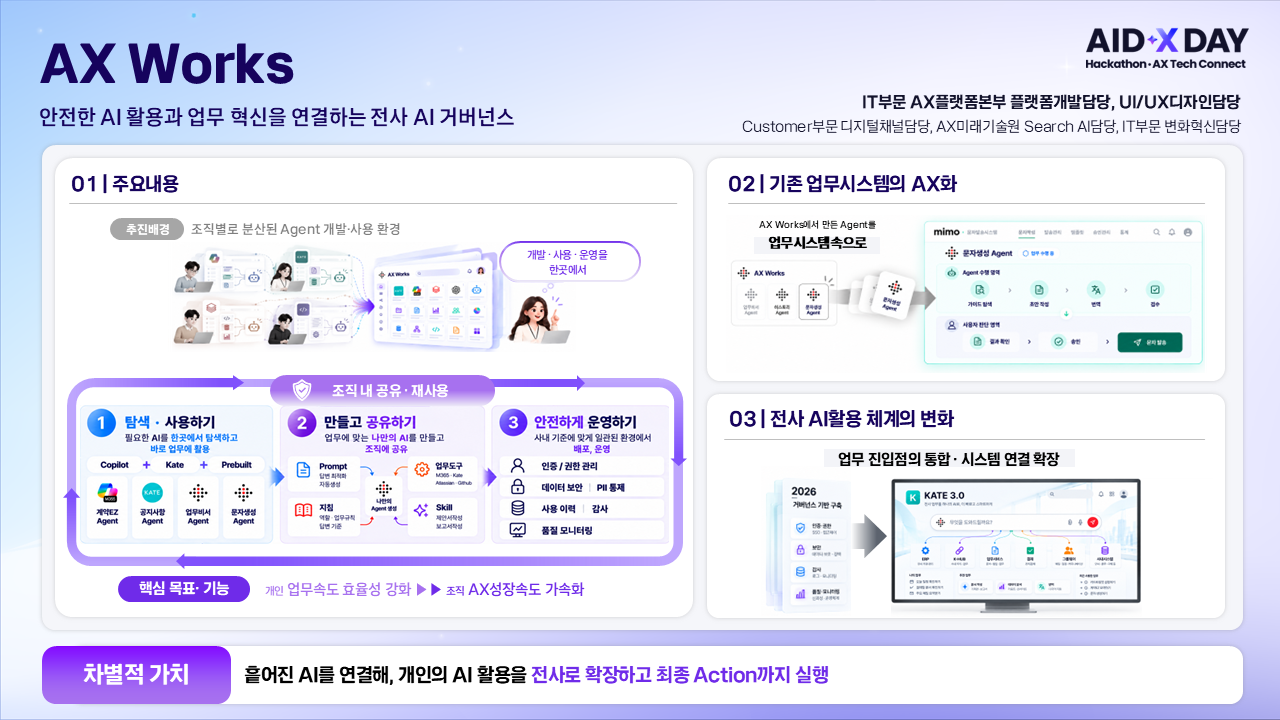
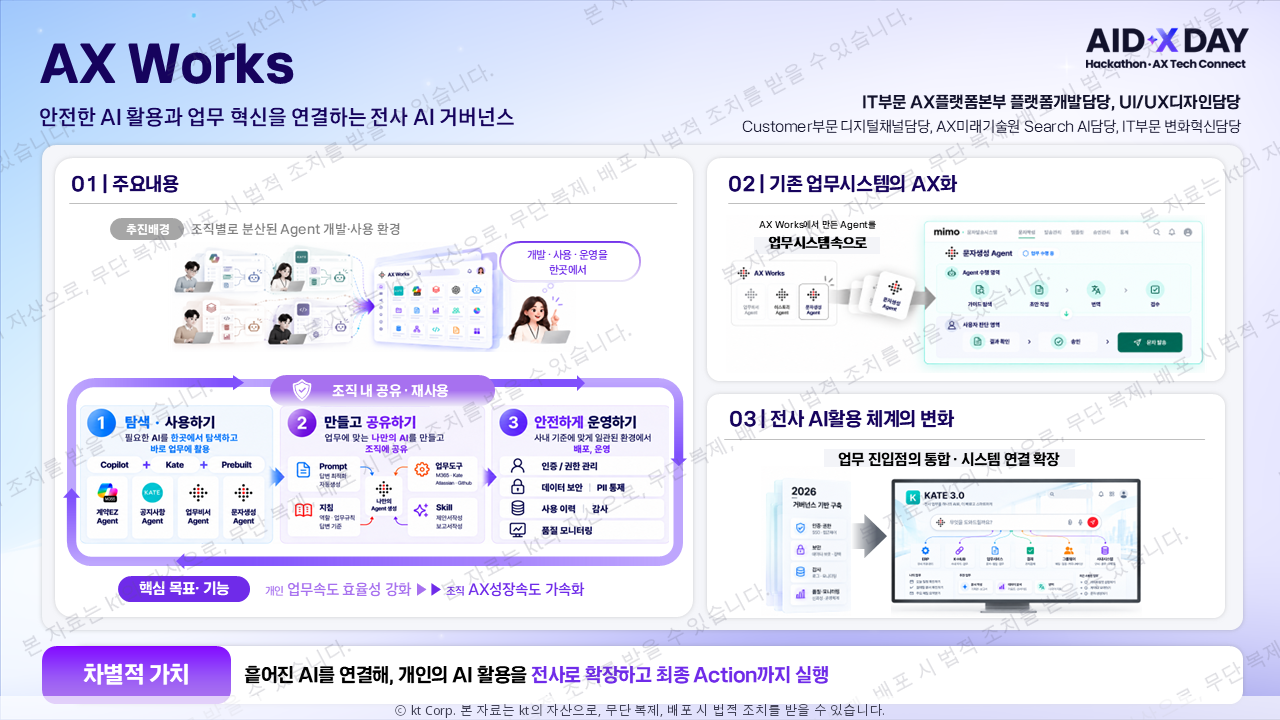
Burn watermark into slide images; show 10.15 00:00–21:00 KST; hide paging for single image; Action watermarks new uploads
Claude-Session: https://claude.ai/code/session_01ERFEuNLNeBDcTGC9L6qXGy

diff --git a/agenda.js b/agenda.js
@@ -16,7 +16,7 @@
   }
   // ---- 자료 뷰어 (이미지 slides/ 또는 PDF) — 화면 워터마크 + 우클릭/길게 눌러 저장 막기 ----
   const PDFJS = "https://cdnjs.cloudflare.com/ajax/libs/pdf.js/3.11.174/";
-  const PDF_NOTICE = "본 자료는 kt의 자산으로, 무단 복제·배포 시 법적 조치를 받을 수 있습니다.";
+  const PDF_NOTICE = "본 자료는 kt의 자산으로, 무단 복제, 배포 시 법적 조치를 받을 수 있습니다.";
   // 열람 가능할 때(서버가 200을 줄 때)만 box를 PDF 뷰어로 바꿔요. 아니면 원래 그림을 그대로 둬요
   function pdfViewer(box, url, onShow) {
     // 운영진 미리보기: 페이지 주소에 ?key=… 가 있으면 PDF 요청에도 붙여요
@@ -88,6 +88,7 @@
     const full = h("button", { type: "button", class: "pdf-btn pdf-full-btn", "aria-label": "크게 보기" }, "⛶");
     const bar = h("div", { class: "pdf-bar" }, prev, num, next, full);
     box.append(stage, bar);
+    if (doc.numPages <= 1) box.classList.add("single");  // 한 장이면 페이지 넘김 숨김
     // 꾹 눌러 저장/복사 막기: 메뉴·선택·드래그 차단 (+ CSS의 -webkit-touch-callout)
     ["contextmenu", "selectstart", "copy"].forEach(ev => box.addEventListener(ev, e => e.preventDefault()));
     box.addEventListener("dragstart", e => e.preventDefault());

diff --git a/functions/pdf/[[path]].js b/functions/pdf/[[path]].js
@@ -1,9 +1,9 @@
 // /pdf/* 요청을 먼저 받아서 공개 시간에만 파일을 내줘요 (Cloudflare Pages Functions)
-// - 공개 시간: 2026-10-15 00:00 ~ 18:00 (한국 시간), 서버 시계 기준
+// - 공개 시간: 2026-10-15 00:00 ~ 21:00 (한국 시간), 서버 시계 기준
 // - 운영진 미리보기: ?key=<PDF_PREVIEW_KEY>  (Cloudflare 설정 > Variables and Secrets 에 저장)
 // - ALWAYS_OPEN 파일은 시간과 상관없이 열려요 (테스트용)
 const OPEN = Date.parse("2026-10-15T00:00:00+09:00");
-const CLOSE = Date.parse("2026-10-15T18:00:00+09:00");
+const CLOSE = Date.parse("2026-10-15T21:00:00+09:00");
 const ALWAYS_OPEN = ["test_agenda.pdf"];
 
 export async function onRequest({ request, env, next }) {
@@ -15,7 +15,7 @@ export async function onRequest({ request, env, next }) {
   const state = now < OPEN ? "before" : now >= CLOSE ? "after" : "open";
 
   if (!ALWAYS_OPEN.includes(name) && !preview && state !== "open") {
-    return new Response("발표 자료는 10.15(목) 00:00–18:00에만 볼 수 있습니다.", {
+    return new Response("발표 자료는 10.15(목) 00:00–21:00에만 볼 수 있습니다.", {
       status: 403,
       headers: {
         "Content-Type": "text/plain; charset=utf-8",

diff --git a/functions/slides/[[path]].js b/functions/slides/[[path]].js
@@ -1,9 +1,9 @@
 // /slides/* (상세 페이지 이미지 자료) 요청을 먼저 받아서 공개 시간에만 내줘요 (Cloudflare Pages Functions)
-// - 공개 시간: 2026-10-15 00:00 ~ 18:00 (한국 시간), 서버 시계 기준
+// - 공개 시간: 2026-10-15 00:00 ~ 21:00 (한국 시간), 서버 시계 기준
 // - 운영진 미리보기: ?key=<PDF_PREVIEW_KEY>  (Cloudflare 설정 > Variables and Secrets 에 저장)
 // - ALWAYS_OPEN 폴더는 시간과 상관없이 열려요 (테스트용)
 const OPEN = Date.parse("2026-10-15T00:00:00+09:00");
-const CLOSE = Date.parse("2026-10-15T18:00:00+09:00");
+const CLOSE = Date.parse("2026-10-15T21:00:00+09:00");
 const ALWAYS_OPEN = ["test_agenda"];
 
 export async function onRequest({ request, env, next }) {

diff --git a/agenda.css b/agenda.css
@@ -139,6 +139,7 @@ a { color: inherit; }
 .pdf-btn:disabled { opacity: .35; cursor: default; }
 .pdf-num { min-width: 64px; text-align: center; font-size: 14px; font-weight: 700; font-variant-numeric: tabular-nums; color: var(--ink-dim); }
 .pdf-full-btn { position: absolute; right: 10px; font-size: 16px; }
+.visual.has-pdf.single .pdf-bar > :not(.pdf-full-btn) { visibility: hidden; }
 .pdf-bar { position: relative; }
 .visual.has-pdf.full {
   position: fixed; inset: 0; z-index: 100; margin: 0; border-radius: 0; border: 0;

diff --git a/tools/watermark_slides.py b/tools/watermark_slides.py
@@ -1,0 +1,85 @@
+"""slides/ 의 이미지 파일 자체에 워터마크를 새겨요 (이미 새긴 파일은 건너뛰어요).
+
+    pip install pillow pymupdf pymupdf-fonts
+    python3 tools/watermark_slides.py
+
+- 대각선 반복 문구 + 아래쪽 안내 한 줄
+- 새긴 파일 이름은 각 폴더의 .watermarked 에 기록해서 두 번 새기지 않아요
+- 너무 큰 이미지는 가로 2560px로 줄여요
+GitHub에 이미지를 올리면 GitHub Actions(.github/workflows/slides.yml)가 자동으로 실행해요.
+"""
+import io
+import math
+import pathlib
+
+import pymupdf
+from PIL import Image, ImageDraw, ImageFont
+
+ROOT = pathlib.Path(__file__).resolve().parent.parent / "slides"
+EXTS = {".jpg", ".jpeg", ".png", ".webp"}
+MARK = "본 자료는 kt의 자산으로, 무단 복제, 배포 시 법적 조치를 받을 수 있습니다."
+SKIP = {"test_agenda"}
+MAX_W = 2560
+FONT_BYTES = pymupdf.Font("cjk").buffer  # 한글 글꼴 (pymupdf-fonts)
+
+
+def font(size):
+    return ImageFont.truetype(io.BytesIO(FONT_BYTES), size)
+
+
+def stamp(im):
+    im = im.convert("RGB")
+    if im.width > MAX_W:
+        im = im.resize((MAX_W, round(im.height * MAX_W / im.width)), Image.LANCZOS)
+    w, h = im.size
+    size = max(14, w // 60)
+    f = font(size)
+    tw = f.getlength(MARK)
+    # 대각선 반복 문구: 큰 투명 레이어에 그린 뒤 회전해서 덮어요
+    side = int(math.hypot(w, h)) + int(tw)
+    layer = Image.new("RGBA", (side, side), (0, 0, 0, 0))
+    d = ImageDraw.Draw(layer)
+    step_x, step_y = int(tw + size * 5), size * 7
+    for j, y in enumerate(range(0, side, step_y)):
+        for x in range(-step_x + (j % 2) * step_x // 2, side, step_x):
+            d.text((x, y), MARK, font=f, fill=(90, 90, 110, 46))
+    layer = layer.rotate(28, resample=Image.BICUBIC)
+    left, top = (side - w) // 2, (side - h) // 2
+    out = im.convert("RGBA")
+    out.alpha_composite(layer.crop((left, top, left + w, top + h)))
+    # 아래쪽 안내 한 줄
+    fs = max(12, w // 95)
+    ff = font(fs)
+    foot = "ⓒ kt Corp. " + MARK
+    fw = ff.getlength(foot)
+    bar = Image.new("RGBA", (w, int(fs * 1.9)), (255, 255, 255, 170))
+    ImageDraw.Draw(bar).text(((w - fw) / 2, fs * 0.4), foot, font=ff, fill=(60, 60, 80, 255))
+    out.alpha_composite(bar, (0, h - bar.height))
+    return out.convert("RGB")
+
+
+def main():
+    n = 0
+    for d in sorted(x for x in ROOT.iterdir() if x.is_dir() and x.name not in SKIP):
+        done_file = d / ".watermarked"
+        done = set(done_file.read_text(encoding="utf-8").split("\n")) if done_file.exists() else set()
+        for p in sorted(x for x in d.iterdir() if x.suffix.lower() in EXTS):
+            if p.name in done:
+                continue
+            im = stamp(Image.open(p))
+            if p.suffix.lower() in {".jpg", ".jpeg"}:
+                im.save(p, quality=88)
+            elif p.suffix.lower() == ".webp":
+                im.save(p, quality=88)
+            else:
+                im.save(p, optimize=True)
+            done.add(p.name)
+            n += 1
+            print("워터마크:", p.relative_to(ROOT))
+        if done - {""}:
+            done_file.write_text("\n".join(sorted(done - {""})) + "\n", encoding="utf-8")
+    print(f"새로 새긴 파일 {n}개")
+
+
+if __name__ == "__main__":
+    main()
